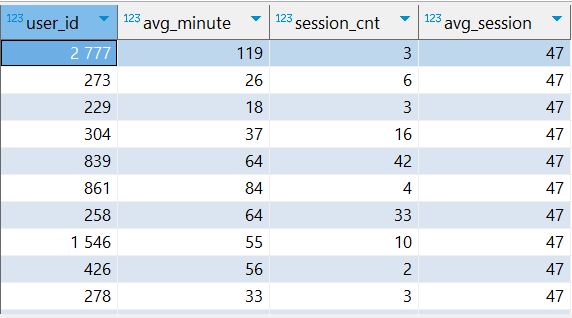
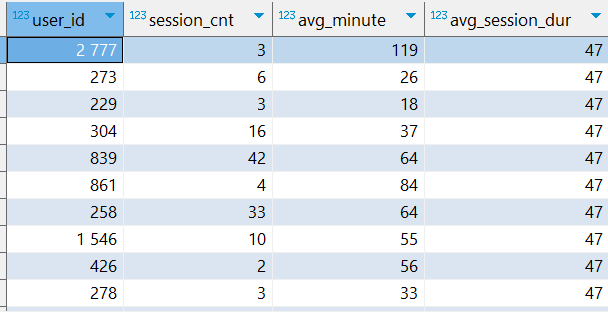
update IT Resume

diff --git a/IT Resume analysis/task.md b/IT Resume analysis/task.md
@@ -85,12 +85,12 @@ IT Resume - платформа с задачами и тестами по про
 https://docs.google.com/document/d/1qKDKq_d8Mhud5p3mADxWWxlIrPx-EfHzvuE0j02dKtA/edit?usp=sharing
 
   
-  
-    
+
+
 # Содержательная часть с описанием запросов
 Просто посмотреть код SQL запросов можно в файле code в этой же папке.  
 По порядку буду делать запросы по каждому интересующему вопросу и расписывать свои действия:  
-Для начала я сделаю несколько CTE, к которым буду обращаться в дальнейшем. В dbeaver все запросы идут друг за другом, поэтому начало CTE with будет записан только в первом.  
+Для начала я сделаю несколько CTE, к которым буду обращаться в дальнейшем. В dbeaver мои запросы записаны друг за другом, поэтому начало CTE with будет записан только в первом.  
 Т.к. для примера я буду работать с компанией с id = 1, для начала я выберу только пользователей из этой компании:
 ``` 
 with my_users as (
@@ -158,7 +158,7 @@ gen_days as (
 	'1 day'::interval)) as day_date
 ),
 ```
-Этот запрос я буду использовать и далее
+Этот запрос я буду использовать и в дальнейшем.  
 Далее могу получить активность каждого дня. Для этого right join-ом присоединяю к таблице all_users_activity сгенерированный интервал. Группирую по дате и дню недели, и извлекаю дату, день недели, количество действий пользователей с помощью агрегатной функции count и кол-во самих пользователей, использую внутри count distinct, чтобы убрать повторы.
 ```
 dayweek_activ as (
@@ -255,7 +255,8 @@ activity_timediff as (
 	from all_users_activity
 	window w as (partition by user_id order by activ_date)
 ),
-```  
+```
+
 Далее сделаю "маркеры" сессий, просуммировав флаги функцией sum(), используя её как оконную. Окно беру с начала до текущей строки. Это даст номер для каждой сессии пользователя. При этом, чтобы не портить разницу между активностью внутри сессии, обнуляю "переходную" активность - там, где разница между парой больше 60 минут, т.е. начинается новая сессия.  
 ```
 session_markers AS (
@@ -268,7 +269,10 @@ session_markers AS (
 	end as new_diff
     FROM activity_timediff
 ),
-```  
+```
+Результат запроса:  
+![таблица](images/session_markers.png)  
+
 После считаю длительность каждой сессии, суммируя все разницы между активностями внутри одной сессии через sum, группируя по user_id и session_id.
 ```
 session_duration as (
@@ -289,17 +293,20 @@ avg_session_duration as (
 Результат запроса:  
 ![таблица](images/avg_session_duration.png)  
 
-А теперь посчитаем количество сессий и ихсреднюю длительность для каждого пользователя с помощью группировки. Для удобства возьмем из предыдущей CTE среднюю длительность с помощью подзапроса.  
+А теперь посчитаем количество сессий и их среднюю длительность для каждого пользователя с помощью группировки. Для удобства возьмем из предыдущей CTE среднюю длительность с помощью подзапроса.  
 ```
 user_session_info as (
-	select count(session_id) as session_cnt,
-	user_id, round(avg(duration)) as avg_minute,
-	(select avg_minute from avg_session_duration) as avg_session
+	select user_id, 
+	count(session_id) as session_cnt,
+	round(avg(duration)) as avg_minute,
+	(select avg_minute from avg_session_duration) as avg_session_dur
 	from session_duration
 	group by user_id
 )
 ```  
 Результат запроса:  
 ![таблица](images/user_session_info.png)  
+
+
 
 ### Самые популярные задачи
